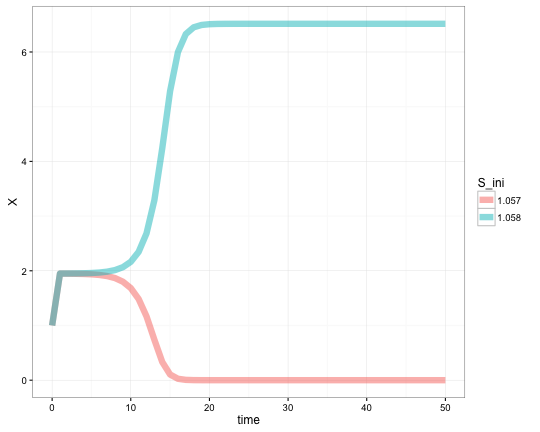
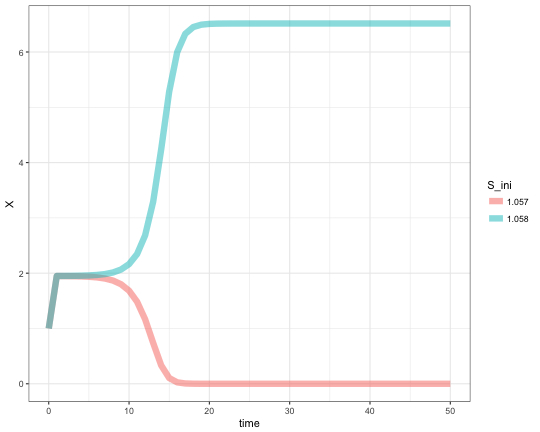
catching up with changes in rootSolve (times -> time)

diff --git a/blog/_posts/2016-07-19-min_bistable_switch.md b/blog/_posts/2016-07-19-min_bistable_switch.md
@@ -7,7 +7,6 @@ body-class: categoryclass
 tags: [R, ODE, modeling]
 ---
 
-The source code of this post is right [here](https://github.com/vladpetyuk/vladpetyuk.github.io/blob/master/blog/_R/2016-07-19-min_bistable_switch.Rmd).
 
 # Intro
 [Bistability switch](https://en.wikipedia.org/wiki/Bistability) that is described here is a chemical reaction system that can jump from one steady state solution
@@ -81,7 +80,7 @@ system.time(
                      {
                         yini['X'] <- a1
                         pars['S'] <- a2
-                        runsteady(yini, times=c(0,Inf), minBiStab, pars)$y['X']
+                        runsteady(yini, time=c(0,Inf), minBiStab, pars)$y['X']
                      }, X_ini, S, mc.cores = 8)))
 {% endhighlight %}
 
@@ -89,7 +88,7 @@ system.time(
 
 {% highlight text %}
 ##    user  system elapsed 
-## 350.611   2.952  54.792
+## 296.981   1.848  54.586
 {% endhighlight %}
 
 
